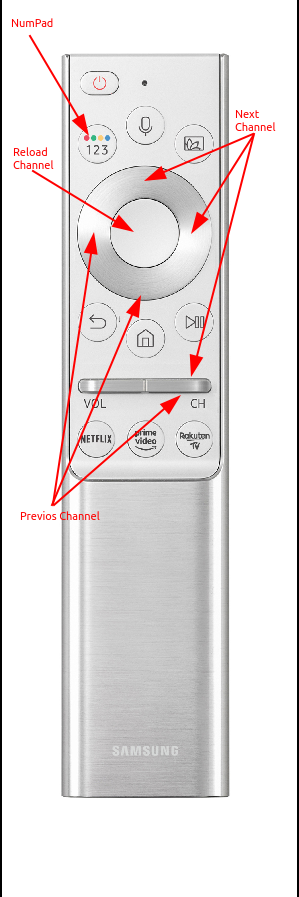
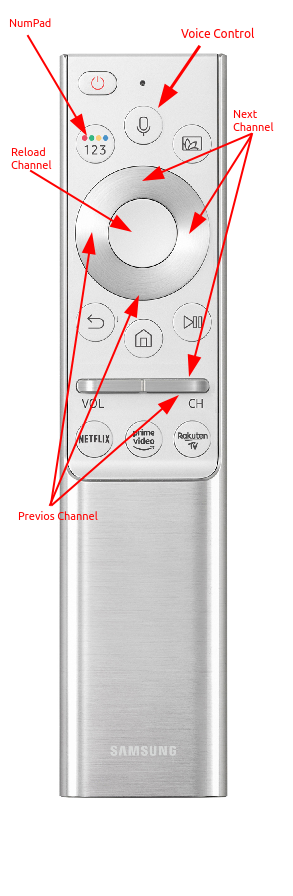
voice control

diff --git a/CameraDevice/main.js b/CameraDevice/main.js
@@ -66,10 +66,10 @@ var reload = () => {
     xhr.send(null);
 }
 
-function getChannel(ch){
+function getChannel(ch) {
     const value = queue.shift();
-    if (value){
-        ch.value=ch.value+''+value;
+    if (value) {
+        ch.value = ch.value + '' + value;
         getChannel(ch);
     }
     return ch;
@@ -77,15 +77,15 @@ function getChannel(ch){
 
 var sel = (c) => {
     queue.push(c);
-	if (!changeChannel){
-	 changeChannel = true;
-	 window.setTimeout(()=>{
-	     const ch = {value:''};
-	     const newch = getChannel(ch);
-         changeChannel = false;
-	     queue = [];
-	     sel0(newch.value)
-     },2000);
+    if (!changeChannel) {
+        changeChannel = true;
+        window.setTimeout(() => {
+            const ch = {value: ''};
+            const newch = getChannel(ch);
+            changeChannel = false;
+            queue = [];
+            sel0(newch.value)
+        }, 2000);
     }
 }
 var sel0 = (c) => {
@@ -136,7 +136,17 @@ var init = function () {
     console.log('init() called');
     window.tizen.tvinputdevice.registerKeyBatch([
         'ChannelUp',
-        'ChannelDown', "1", "2", "3", "4", "5", "6", "7", "8", "9", "0"]);
+        'ChannelDown',
+        "1",
+        "2",
+        "3",
+        "4",
+        "5",
+        "6",
+        "7",
+        "8",
+        "9",
+        "0"]);
     document.addEventListener('visibilitychange', function () {
         if (document.hidden) {
             // Something you want to do when hide or exit.
@@ -208,6 +218,45 @@ var init = function () {
         }
     }, true);
     document.body.focus();
+    const voicecontrol = tizen.voicecontrol;
+    if (voicecontrol) {
+        const client = voicecontrol.getVoiceControlClient();
+        if (client) {
+            var commands = [
+                new tizen.VoiceControlCommand("ChannelUp"),
+                new tizen.VoiceControlCommand("ChannelDown"),
+                new tizen.VoiceControlCommand("Refresh"),
+                new tizen.VoiceControlCommand("Select"),
+                new tizen.VoiceControlCommand("OK"),
+
+            ];
+            for (var i = 0; i < 1000; i++) {
+                commands.push(new tizen.VoiceControlCommand(`${i}`));
+            }
+            try {
+                client.setCommandList(commands, "FOREGROUND");
+
+                var resultListenerCallback = function (event, list, result) {
+                    if (event === 'SUCCESS') {
+                        if (!isNaN(result)) {
+                            sel(result);
+                        }
+                        if (result === 'OK' || result === 'Refresh' || result === 'Select') {
+                            reload();
+                        }
+                    }
+                    console.log("Result callback - event: " + event + ", result: " + result);
+                }
+
+                client.addResultListener(resultListenerCallback);
+            } catch (e) {
+                console.error("Voice Control Error", e);
+            }
+
+        }
+
+    }
+
 };
 // window.onload can work without <body onload="">
 window.onload = init;

diff --git a/README.md b/README.md
@@ -5,13 +5,14 @@ Display  RTSP streams from IP Cameras on Samsung smart TV (Tizen TV)
 
 # Features
  - support more than 999 RTSP streams(support for multiple IP cameras).
- - switch channels(rtsp stream) using numpad on the remote contol
+ - switch channels(rtsp stream) using numpad on the remote control
  - use server to convert rtsp streams using ffmpeg
  - [group rtsp streams on the obe channel (Display 4 cameras streams on one channel)](#add-4-cameras-on-one-screen--)
  - support udp and tcp transport
  - tizen samsung tv application
  - [admin ui](#admin-ui)
  - [protect admin ui(optional)](#protect-admin-ui-using-keycloak-sso-optional)
+ - Voice Control
 
 # Server Installation
 1. install git, ffmpeg
@@ -92,6 +93,14 @@ var serverInfo = {
 12. set Connection to "On"
 13. right click on your connection and select "Permit install"
 14. in Tizen studio select project and run it on TV
+
+# Voice Control
+    1. Press VOICE button
+    2. Say command
+## List of commands:
+ "Channel Up" (or the same on your language)
+ "Channel Down" (or the same on your language)
+ "1","2","3","4" ... "999"
 
 # Remote Control
 
